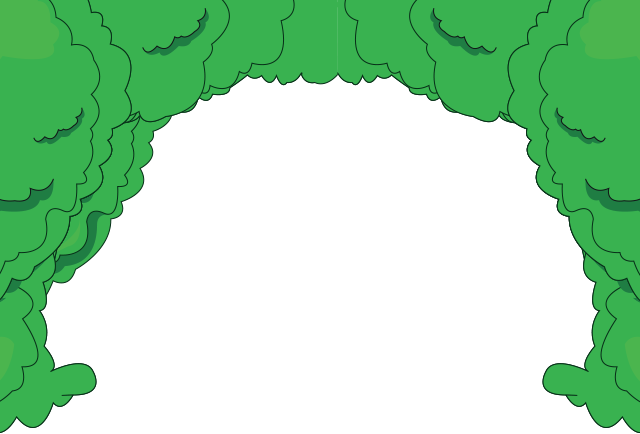
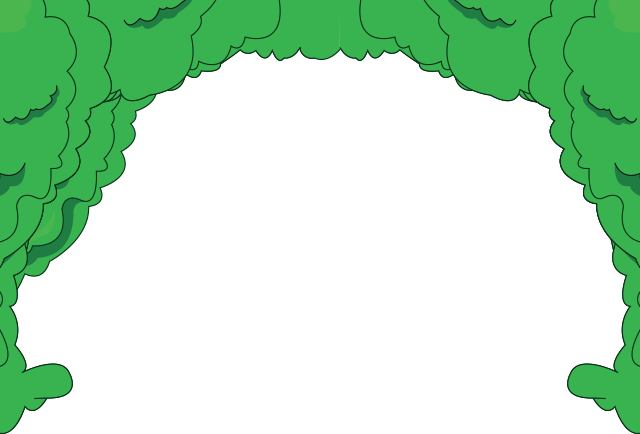
Change background assets

diff --git a/iOS/BaoMonkey/PauseScene.m b/iOS/BaoMonkey/PauseScene.m
@@ -15,7 +15,7 @@
 -(id)initWithSize:(CGSize)size andScene:(SKScene*)scene{
     self = [super initWithSize:size];
     if (self) {
-        SKSpriteNode *background = [SKSpriteNode spriteNodeWithImageNamed:@"background-menu"];
+        SKSpriteNode *background = [SKSpriteNode spriteNodeWithImageNamed:@"background-right"];
         background.position = CGPointMake(SCREEN_WIDTH / 2, SCREEN_HEIGHT / 2);
         [self addChild:background];
         fromScene = scene;
@@ -87,7 +87,7 @@
     SKNode *node = [self nodeAtPoint:location];
     
     if ([node.name isEqualToString:RESUME_NODE_NAME]) {
-        SKTransition *resumeTransition = [SKTransition pushWithDirection:SKTransitionDirectionLeft duration:0.5];
+        SKTransition *resumeTransition = [SKTransition pushWithDirection:SKTransitionDirectionRight duration:0.5];
         [self.view presentScene:fromScene transition:resumeTransition];
         [(MyScene*)fromScene resumeGame];
         [resumeNode setTexture:[SKTexture textureWithImageNamed:@"button-play"]];

diff --git a/iOS/BaoMonkey/MyScene.m b/iOS/BaoMonkey/MyScene.m
@@ -45,7 +45,7 @@
 }
 
 -(SKSpriteNode *)backgroundNode {
-    SKSpriteNode *node = [SKSpriteNode spriteNodeWithImageNamed:@"background"];
+    SKSpriteNode *node = [SKSpriteNode spriteNodeWithImageNamed:@"background-middle"];
     node.position = CGPointMake((SCREEN_WIDTH / 2), (SCREEN_HEIGHT / 2));
     node.name = TRUNK_NODE_NAME;
     return node;
@@ -174,7 +174,7 @@
     oncePause = 0;
     oncePlay = -1;
     
-    menuTransition = [SKTransition pushWithDirection:SKTransitionDirectionRight duration:0.5];
+    menuTransition = [SKTransition pushWithDirection:SKTransitionDirectionLeft duration:0.5];
 }
 
 -(id)initWithSize:(CGSize)size {

diff --git a/iOS/BaoMonkey/GameOverScene.m b/iOS/BaoMonkey/GameOverScene.m
@@ -15,7 +15,7 @@
 -(id)initWithSize:(CGSize)size andScene:(SKScene*)scene{
     self = [super initWithSize:size];
     if (self) {
-        SKSpriteNode *background = [SKSpriteNode spriteNodeWithImageNamed:@"background-menu"];
+        SKSpriteNode *background = [SKSpriteNode spriteNodeWithImageNamed:@"background-left"];
         background.position = CGPointMake(SCREEN_WIDTH / 2, SCREEN_HEIGHT / 2);
         [self addChild:background];
         fromScene = scene;

diff --git a/iOS/BaoMonkey/MainMenu.m b/iOS/BaoMonkey/MainMenu.m
@@ -34,7 +34,7 @@
 }
 
 -(void)initMainMenu {
-    [background setTexture:[SKTexture textureWithImageNamed:@"background-menu"]];
+    [background setTexture:[SKTexture textureWithImageNamed:@"background-left"]];
     
     panel = [SKSpriteNode spriteNodeWithTexture:[SKTexture textureWithImageNamed:@"background-panel-4buttons"] size:CGSizeMake(307, 421)];
     panel.position = CGPointMake(SCREEN_WIDTH / 2, SCREEN_HEIGHT - (panel.size.height / 2));
